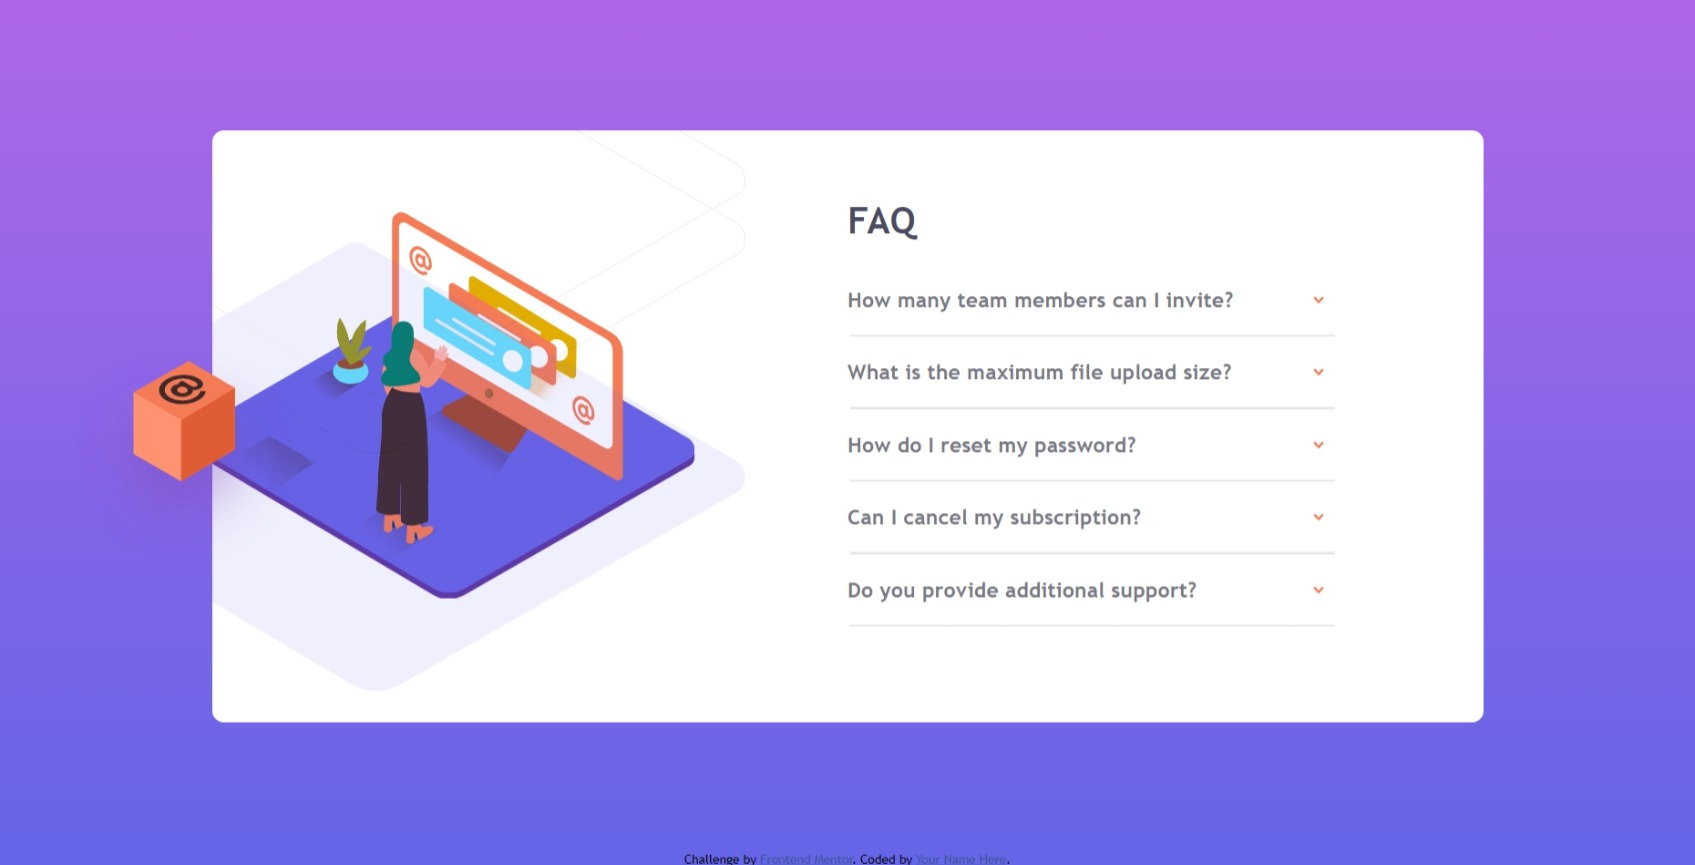
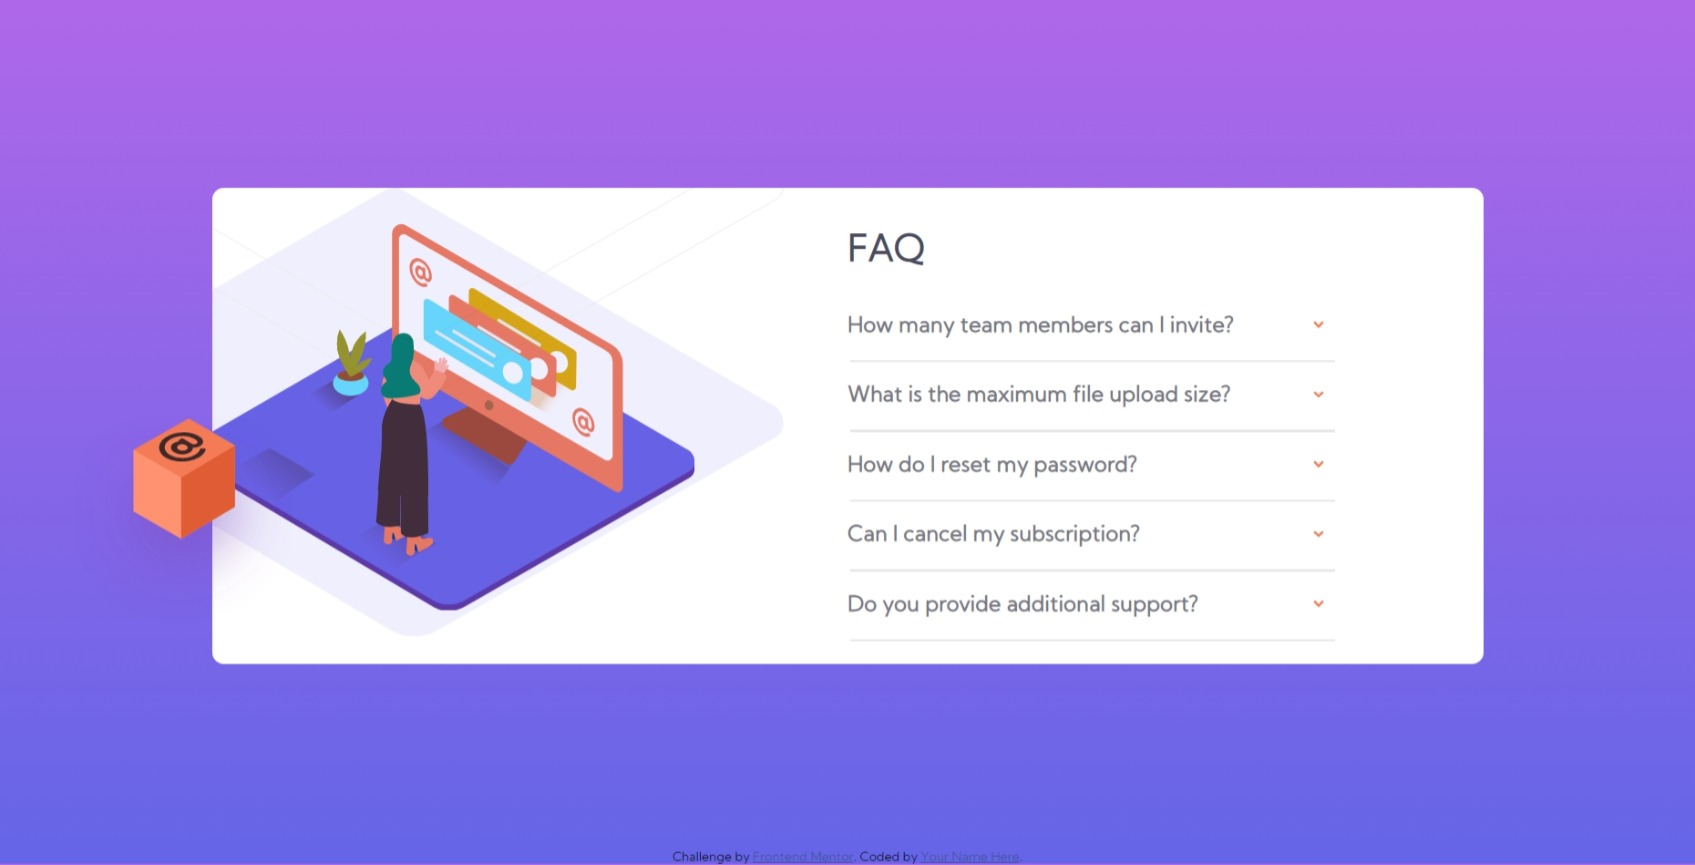
Add files via upload

diff --git a/styles.css b/styles.css
@@ -1,3 +1,5 @@
+@import url("https://fonts.googleapis.com/css2?family=Kumbh+Sans:wght@300&display=swap");
+
 .attribution {
   font-size: 11px;
   text-align: center;
@@ -15,6 +17,7 @@
 body {
   max-height: 100%;
   background-image: linear-gradient(hsl(273, 75%, 66%), hsl(240, 73%, 65%));
+  font-family: "Kumbh Sans", sans-serif;
 }
 
 main {
@@ -41,10 +44,6 @@ main {
   position: relative;
   background-image: url(./images/bg-pattern-desktop.svg),
     url(./images/illustration-woman-online-desktop.svg);
-  /*
-  background-position: 180% 120%, -20% 40%;
-  background-size: 120%, 80%;
-  */
   background-position: 150% 110%, -20% 40%;
   background-size: 120%, 80%, cover;
   background-repeat: no-repeat;
@@ -65,15 +64,18 @@ main {
 .heading {
   color: hsl(237, 12%, 33%);
   padding: 40px 0px 40px 0px;
+  font-weight: 700;
 }
 
 .heading1 {
   color: hsl(240, 6%, 50%);
+  font-weight: 700;
 }
 
 .team {
   text-decoration: none;
   color: hsl(240, 6%, 50%);
+  font-weight: 700;
 }
 
 .heading1:hover {
@@ -86,6 +88,7 @@ main {
   font-family: Kumbh Sans;
   padding: 20px 0px 0px 0px;
   display: none;
+  font-weight: 400;
 }
 
 .line {
@@ -97,6 +100,7 @@ main {
 #maximum {
   text-decoration: none;
   color: hsl(240, 6%, 50%);
+  font-weight: 700;
 }
 
 #file:hover {
@@ -109,11 +113,13 @@ main {
   font-family: Kumbh Sans;
   padding: 20px 0px 0px 0px;
   display: none;
+  font-weight: 400;
 }
 
 #reset {
   text-decoration: none;
   color: hsl(240, 6%, 50%);
+  font-weight: 700;
 }
 
 #password:hover {
@@ -126,6 +132,7 @@ main {
   font-family: Kumbh Sans;
   padding: 20px 0px 0px 0px;
   display: none;
+  font-weight: 400;
 }
 
 .container2 {
@@ -137,6 +144,7 @@ main {
 #cancel {
   text-decoration: none;
   color: hsl(240, 6%, 50%);
+  font-weight: 700;
 }
 
 #subscription:hover {
@@ -149,11 +157,13 @@ main {
   font-family: Kumbh Sans;
   padding: 20px 0px 0px 0px;
   display: none;
+  font-weight: 400;
 }
 
 #additional {
   text-decoration: none;
   color: hsl(240, 6%, 50%);
+  font-weight: 700;
 }
 
 #support:hover {
@@ -166,6 +176,7 @@ main {
   font-family: Kumbh Sans;
   padding: 20px 0px 0px 0px;
   display: none;
+  font-weight: 400;
 }
 
 .image-container {

diff --git a/index.html b/index.html
@@ -12,10 +12,7 @@
       href="./images/favicon-32x32.png"
     />
 
-    <link
-      rel="stylesheet"
-      href="https://fonts.google.com/specimen/Kumbh+Sans"
-    />
+ 
     <link rel="stylesheet" type="text/css" href="./styles.css" />
 
     <title>Frontend Mentor | FAQ Accordion Card</title>
